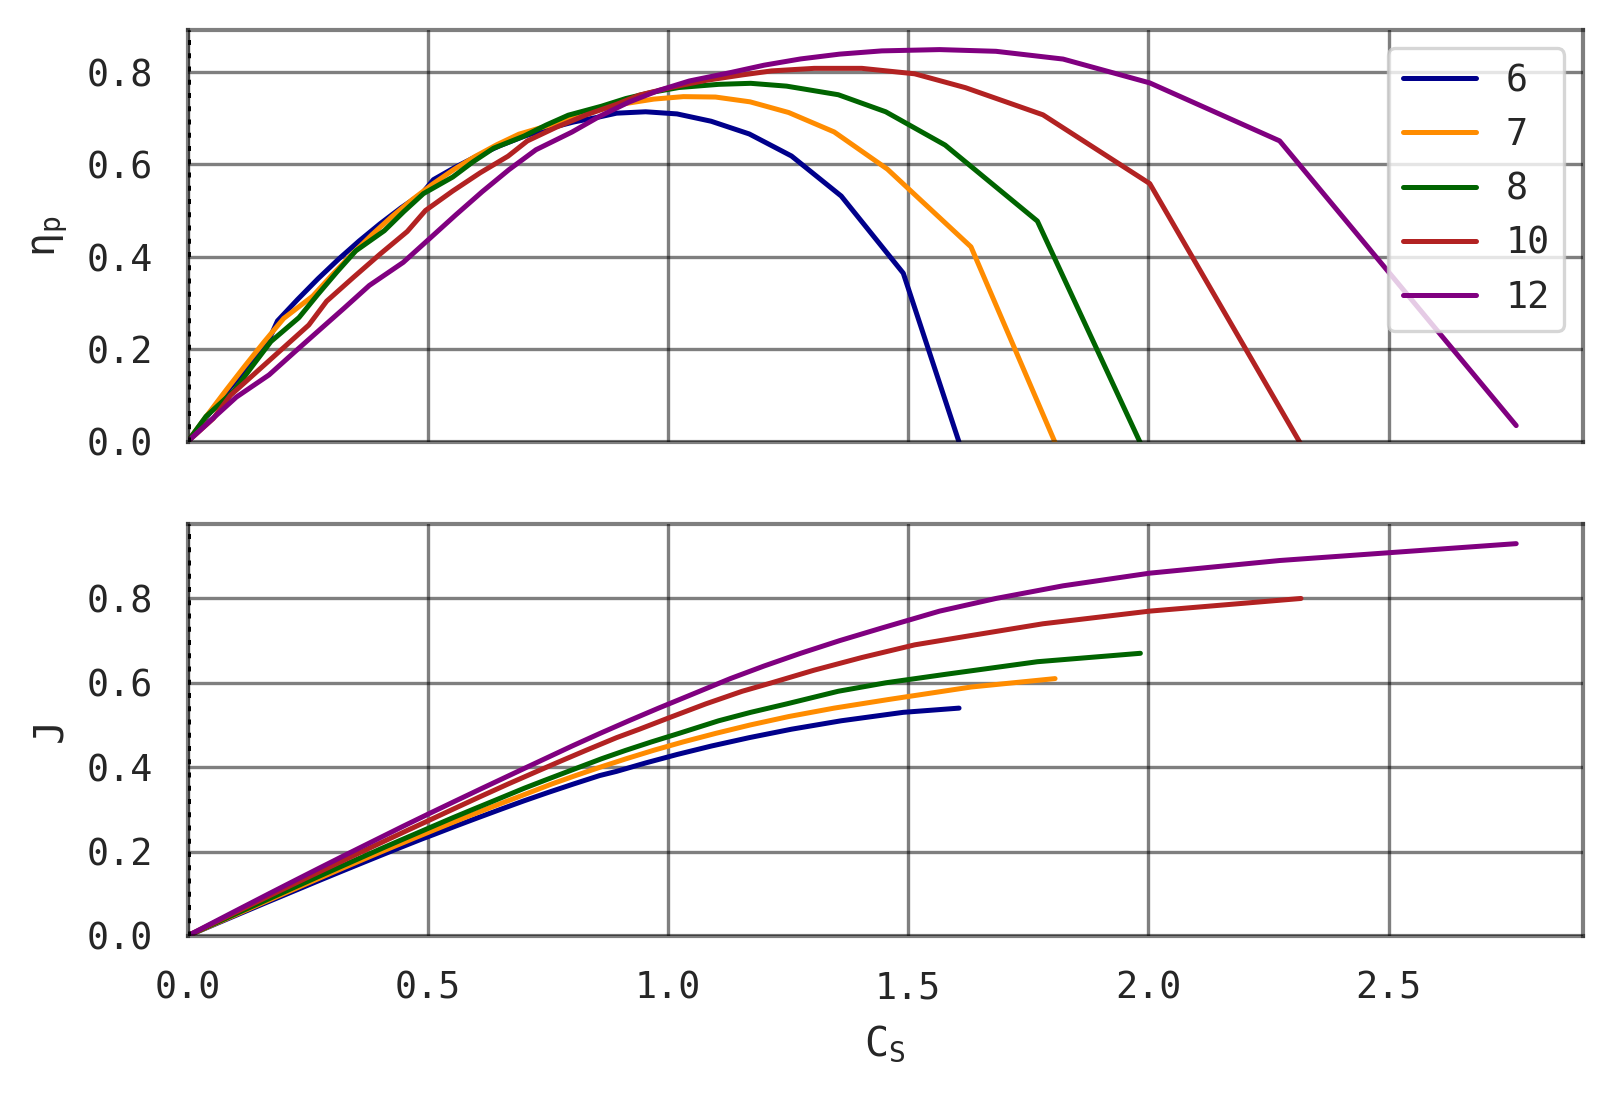
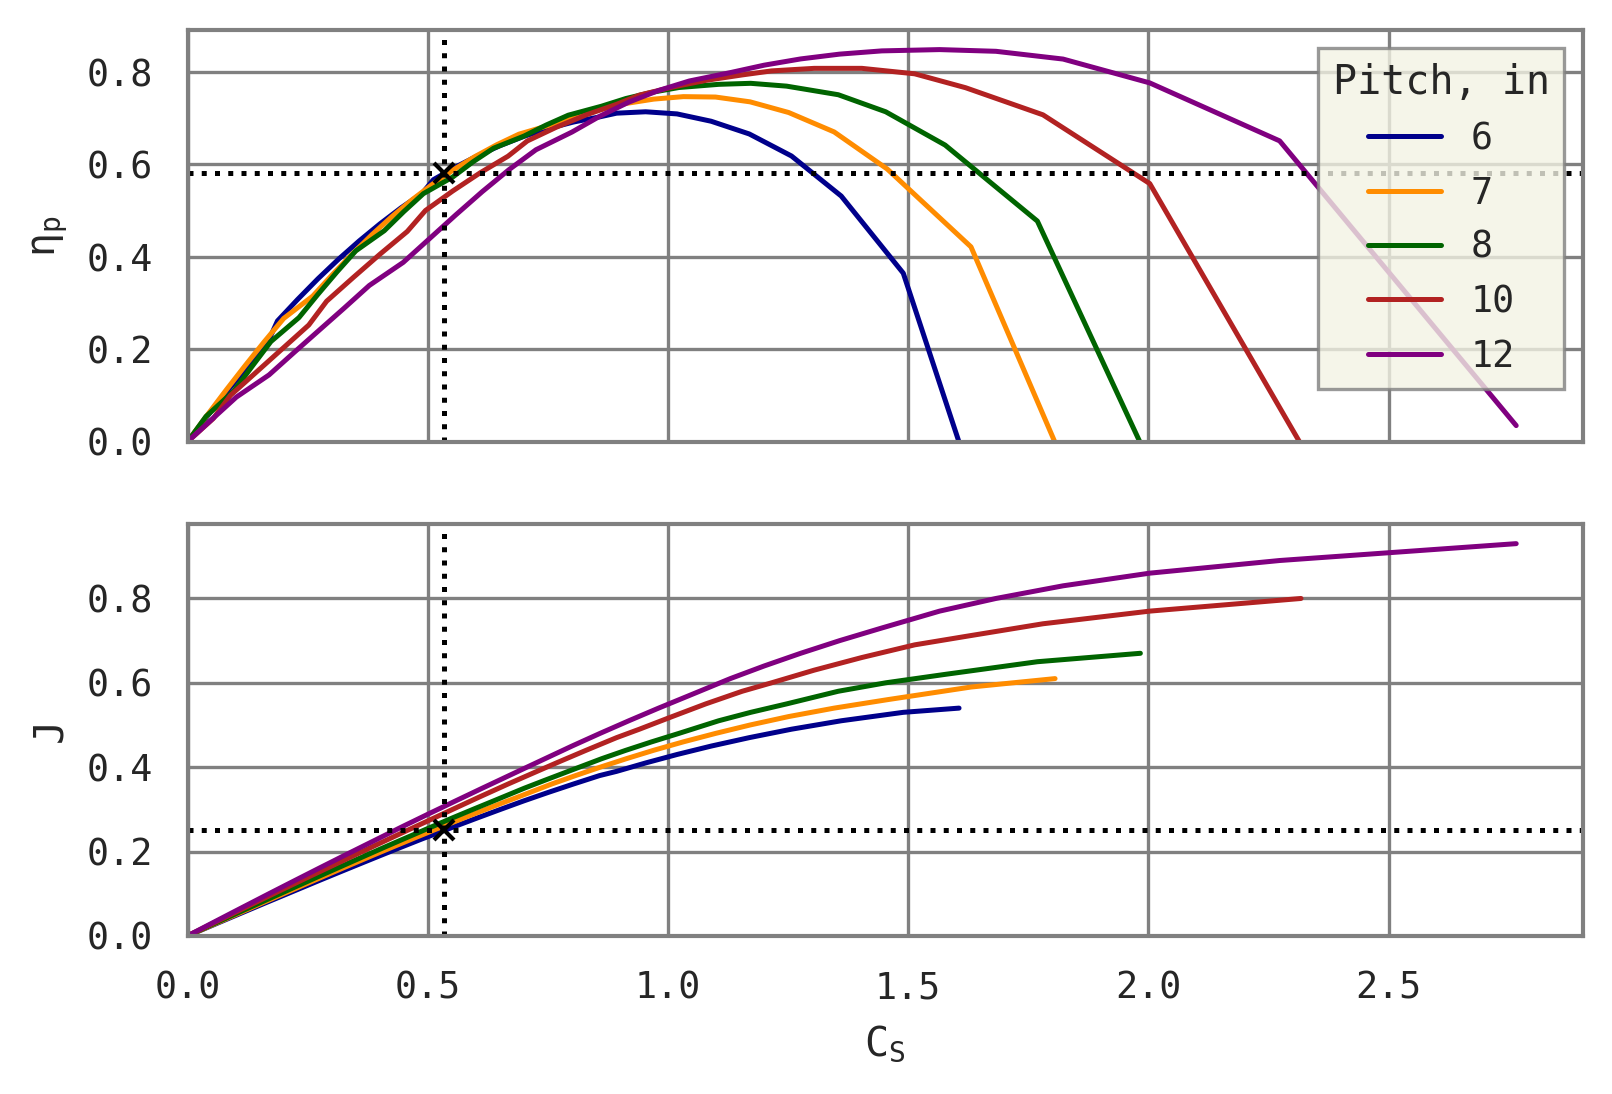
Test run

diff --git a/propeller_selection.py b/propeller_selection.py
@@ -12,8 +12,9 @@ ureg = UnitRegistry()
 # Plotting constants
 DPI = 300
 SUBSTACK_FLAG = True
+FACECOLOR ="#f2f2e3"
 COLORS = ["darkblue", "darkorange", "darkgreen", "firebrick",
-          "purple", "mediumvioletred", "goldenrod", "dimgrey", "darkcyan"]
+          "purple", "mediumvioletred", "goldenrod", "darkcyan"]
 GRAPHICS_DIR = "graphics"
 
 if SUBSTACK_FLAG:
@@ -30,7 +31,7 @@ AVEPERF_DATA_DIR = "reformatted_data/ave_performance"
 # %% User input
 
 # Declare operation conditions
-V_op = 0.0001
+V_op = 15
 n_op = 8000/60
 P_op = 1000
 rho_op = 1.02114
@@ -68,20 +69,18 @@ for k, prop in enumerate(prop_list):
 for ax in axes:
     if SUBSTACK_FLAG:
         for spine in ax.spines.values():
-            spine.set(color="black", alpha=1/2)
-        ax.grid(visible=True, color="black", alpha=1/2)
+            spine.set(color="gray")
+        ax.grid(visible=True, color="gray")
+        ax1.legend(title="Pitch, in", facecolor=FACECOLOR, fancybox=False, edgecolor="gray")
     else:
-        pass
+        ax1.legendtitle="Pitch, in"()
     ax.set_xlim(left=0)
     ax.set_ylim(bottom=0)
     ax.axvline(x=CS_op, color="black", linestyle="dotted")
-ax1.legend()
+
 ax1.set_ylabel(r'$\mathdefault{\eta_{p}}$')
 ax2.set_xlabel(r'$\mathdefault{C_{S}}$')
 ax2.set_ylabel('J')
-
-fig.savefig(GRAPHICS_DIR + "/plot.png",
-            format="png", transparent=True, bbox_inches="tight")
 
 eta_p_list = []
 for i, eta_p_func in enumerate(eta_p_func_list):
@@ -91,10 +90,12 @@ for i, eta_p_func in enumerate(eta_p_func_list):
 eta_p_best = max(eta_p_list)
 best_index = eta_p_list.index(eta_p_best)
 ax1.axhline(y=eta_p_best, color="black", linestyle="dotted")
+ax1.plot(CS_op, eta_p_best, marker='x', color="black")
 
 pitch_best = prop_list[best_index][3:-1]
 J_best = J_func_list[best_index](CS_op)
 ax2.axhline(y=J_best, color="black", linestyle="dotted")
+ax2.plot(CS_op, J_best, marker='x', color="black")
 
 D_convfact = (1 * ureg.meter).to(ureg.inch).magnitude
 D = V_op/(n_op*J_best) * D_convfact
@@ -103,6 +104,9 @@ T = eta_p_best*P_op/V_op
 
 
 # %% Output
+
+fig.savefig(GRAPHICS_DIR + "/plot.png",
+            format="png", transparent=True, bbox_inches="tight")
 
 print("Diameter: {0:.1f} in\nPitch: {1} in\nPropulsive Efficiency: {2:.4f}\nThrust: {3:.4f} N".format(
     D, pitch_best, eta_p_best, T))
